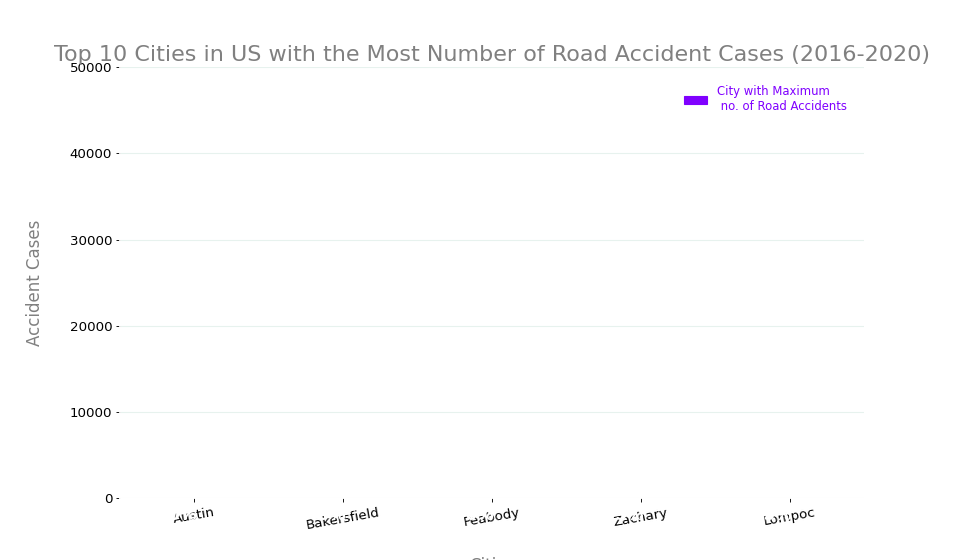
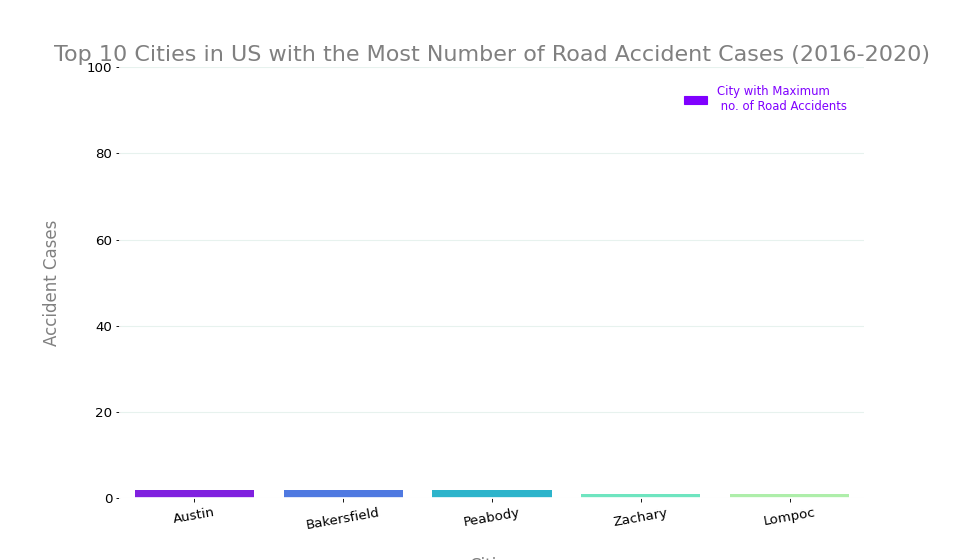
Ulalaaaah ITs done

diff --git a/templates/datalysis.html b/templates/datalysis.html
@@ -5,6 +5,27 @@
     <meta name="viewport" content="width=device-width, initial-scale=1.0">
     <title>Data Analysis</title>
     <style>
+        body {
+            font-family: Arial, sans-serif;
+            background-color: #f0f0f0;
+            margin: 0;
+            padding: 20px;
+        }
+
+        .container {
+            max-width: 800px;
+            margin: auto;
+            background-color: #ffffff;
+            padding: 20px;
+            border-radius: 8px;
+            box-shadow: 0 0 10px rgba(0, 0, 0, 0.1);
+        }
+
+        .header {
+            text-align: center;
+            margin-bottom: 20px;
+        }
+
         .visualization-container {
             display: flex;
             flex-wrap: wrap;
@@ -12,20 +33,60 @@
             margin-top: 20px;
         }
 
-        img {
+        .visualization-item {
+            margin: 10px;
+            text-align: center;
+        }
+
+        .visualization-item img {
             max-width: 100%;
             height: auto;
             display: block;
-            margin: auto;
+            border-radius: 8px;
+            box-shadow: 0 0 5px rgba(0, 0, 0, 0.2);
         }
 
         h1 {
-            text-align: center;
+            margin-bottom: 20px;
+        }
+
+        a {
+            text-decoration: none;
+            color: #007bff;
+            font-weight: bold;
+            display: inline-block;
+            margin-top: 10px;
+            border: 2px solid #007bff;
+            padding: 10px 20px;
+            border-radius: 5px;
+            transition: background-color 0.3s, color 0.3s;
+        }
+
+        a:hover {
+            background-color: #007bff;
+            color: #ffffff;
         }
     </style>
 </head>
 <body>
+    <div class="container">
+        <div class="header">
             <h1>City Analysis Visualization</h1>
+        </div>
+        
+        <div class="visualization-container">
+            <div class="visualization-item">
+                <img src="static\usa-city1.jpg" alt="Visualization 1">
+                <p>Description or caption for visualization 1.</p>
+            </div>
+            <div class="visualization-item">
+                <img src="static\usa-city1.jpg" alt="Visualization 2">
+                <p>Description or caption for visualization 2.</p>
+            </div>
+            <!-- Add more visualization items as needed -->
+        </div>
+
+        <div class="text-center">
             <!-- Update the link to the city analysis visualization -->
             <a href="{{ plot_path }}">VIEW THE CITY ANALYSIS Visualization</a>
         </div>

diff --git a/app.py b/app.py
@@ -15,9 +15,9 @@ import sqlite3
 import pandas as pd
 import matplotlib.pyplot as plt
 import matplotlib.colors as mcolors
-import seaborn as sns  
-from matplotlib import cm  
+import seaborn as sns    
 import matplotlib
+from matplotlib import cm
 import matplotlib.patches as mpatches
 import geopandas as gpd
 from geopy.geocoders import Nominatim
@@ -220,7 +220,7 @@ def reset_password(token):
 @app.route('/data_analysis')
 @login_required
 def DATALYSIS():
-    conn = sqlite3.connect('C:\\Users\\students\\NIELSEN_ACCIDENT_ANALYSIS\\instance\\nielsenaccident.db')
+    conn = sqlite3.connect('C:\\Users\\user\\NIELSEN_ACCIDENT_ANALYSIS\\instance\\nielsenaccident.db')
     df = pd.read_sql_query("SELECT * FROM accidents", conn)
     conn.close()
     
@@ -233,7 +233,7 @@ def DATALYSIS():
     top_8_cities = city_accidents.head(8)
     
     # Customized visualization
-    fig, ax = plt.subplots(figsize=(12, 7), dpi=80)
+    ax = plt.subplots(figsize=(12, 7), dpi=80)
     cmap = cm.get_cmap('rainbow', 8)
     clrs = [cm.colors.rgb2hex(cmap(i)) for i in range(cmap.N)]
     
@@ -246,7 +246,7 @@ def DATALYSIS():
     
     plt.title('Top 10 Cities in US with the Most Number of Road Accident Cases (2016-2020)',
               size=20, color='grey')
-    plt.ylim(0, 50000)
+    plt.ylim(0, 100)
     plt.xticks(rotation=10, fontsize=12)
     plt.yticks(fontsize=12)
     
